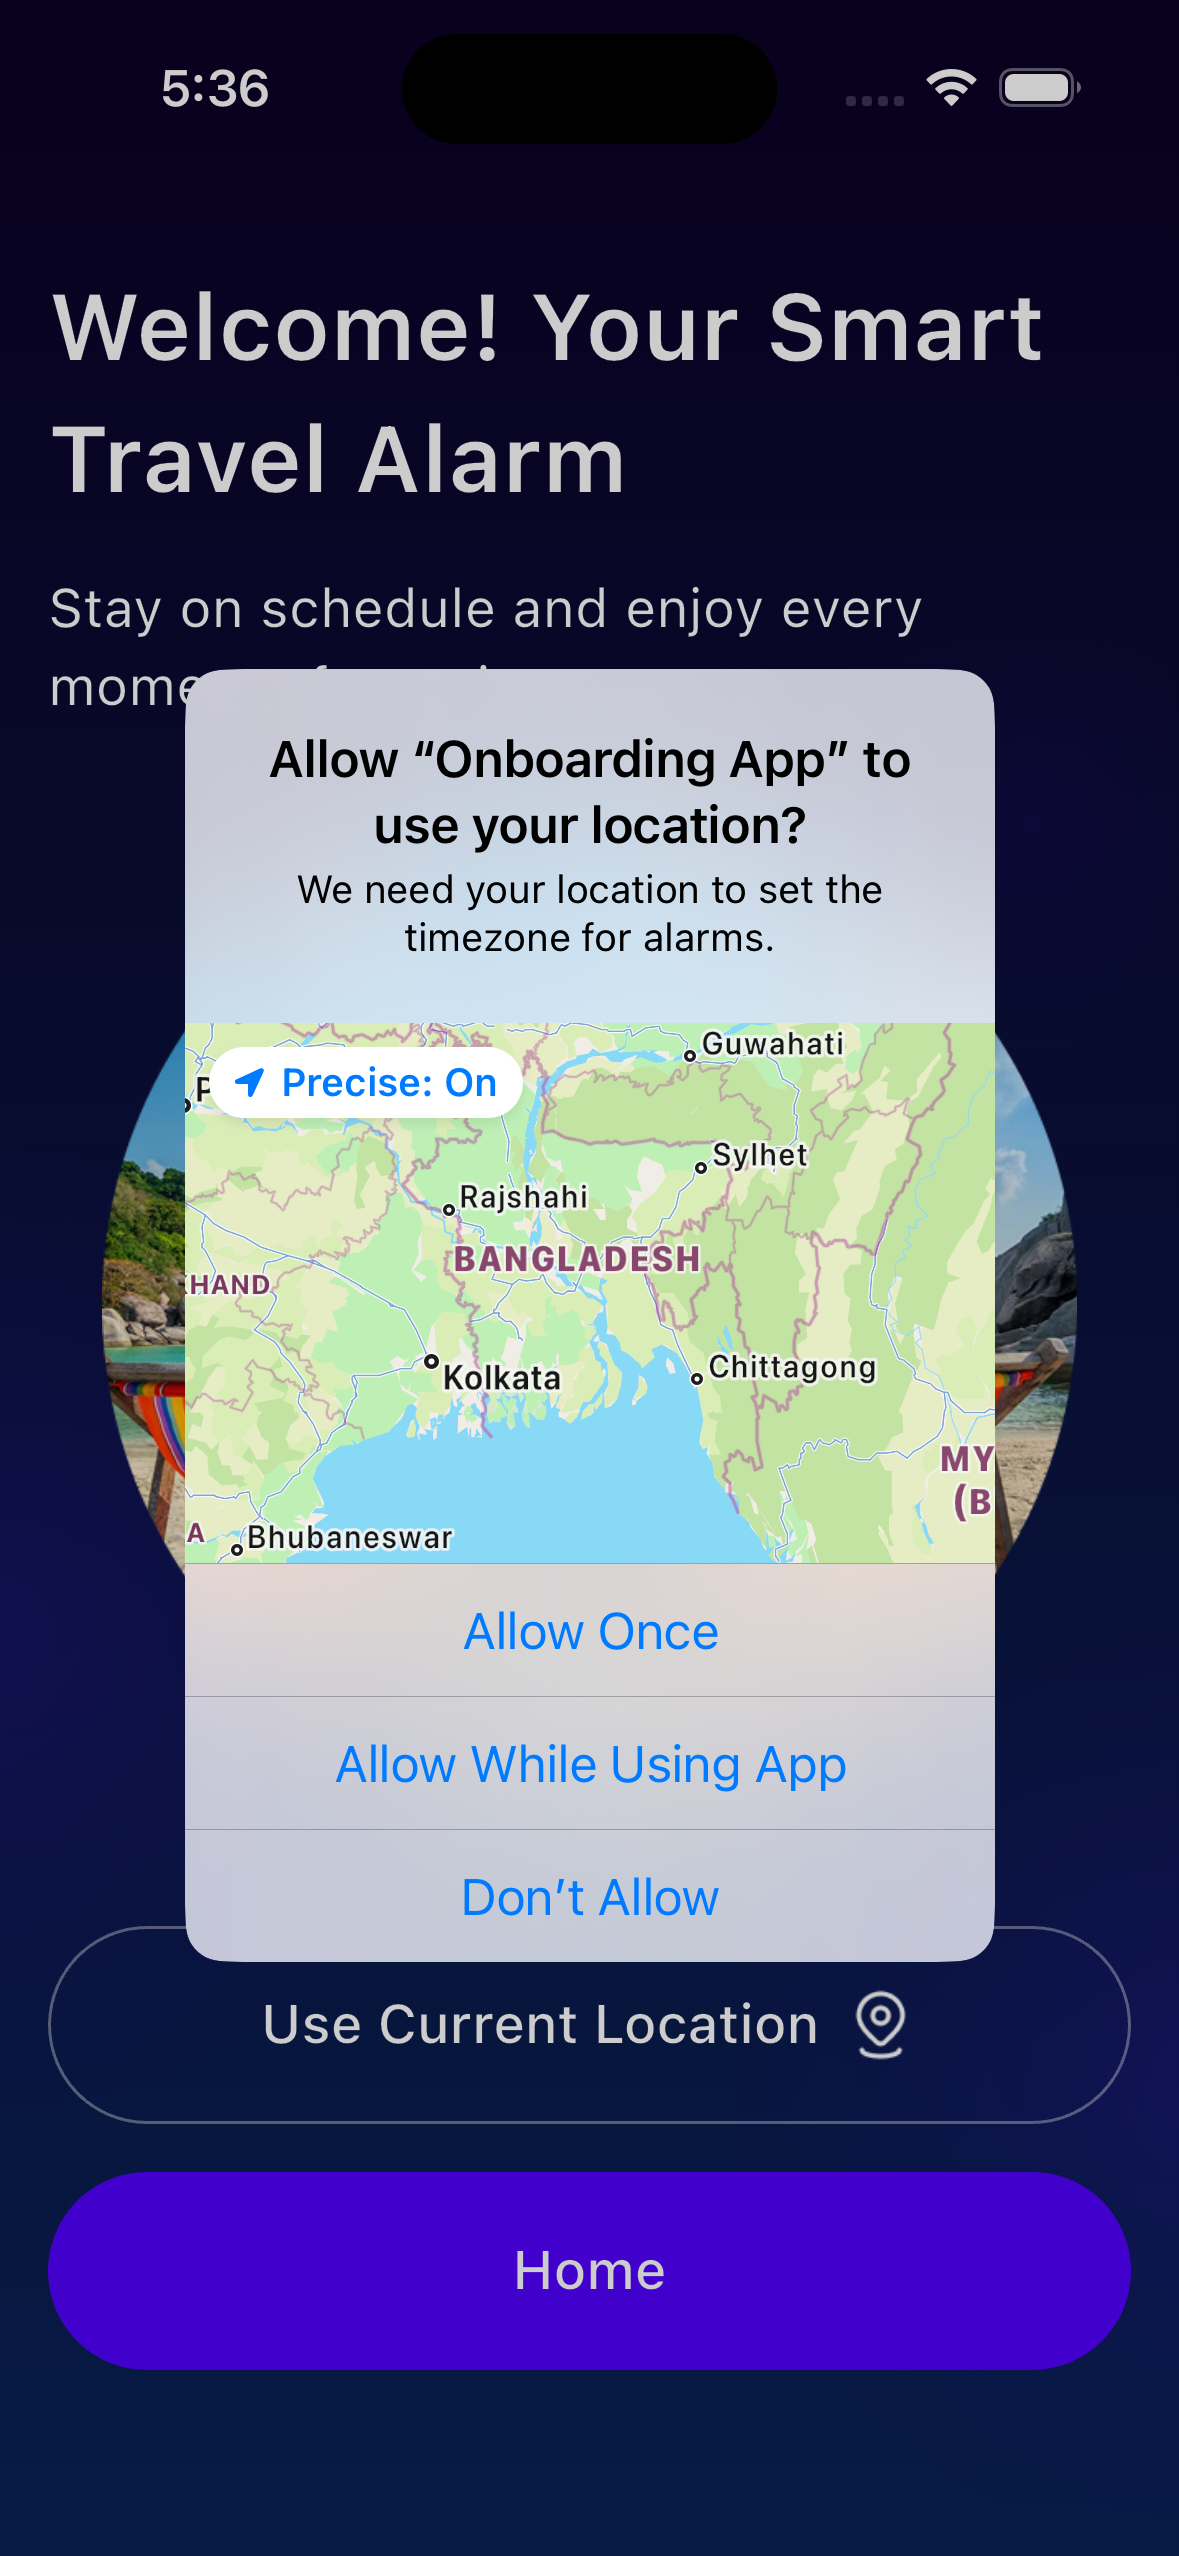
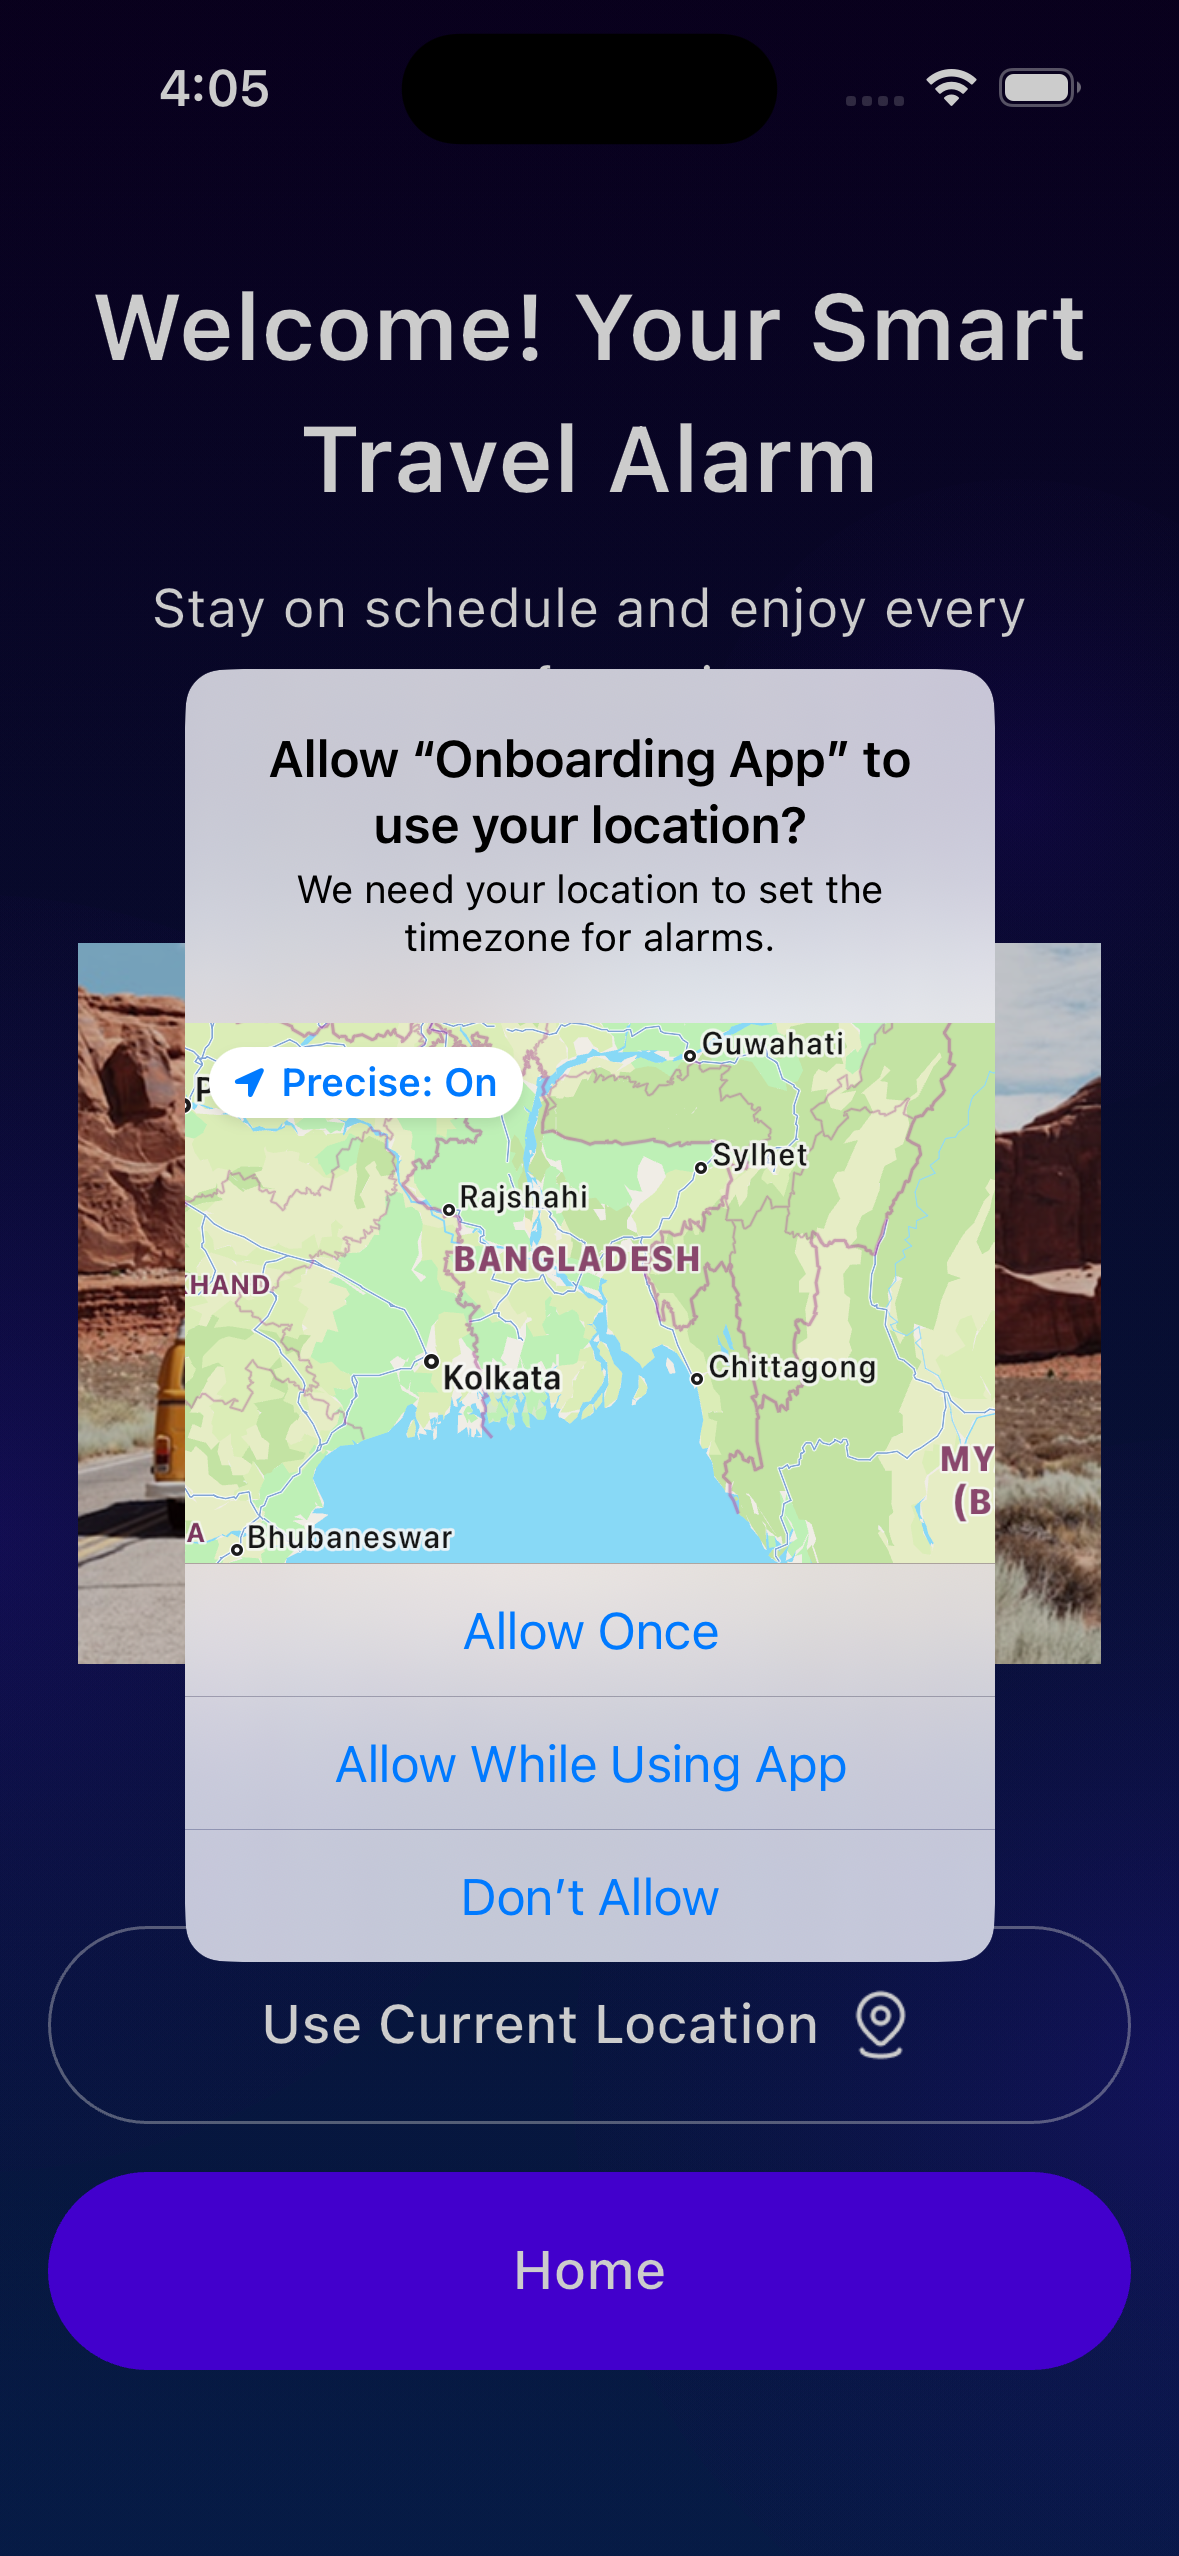
All Updated

diff --git a/lib/common_widgets/gradient_container.dart b/lib/common_widgets/gradient_container.dart
@@ -34,19 +34,16 @@ class GradientContainer extends StatelessWidget {
         children: [
           // Ellipse left center
           Positioned(
-            top: screenHeight * fracY(360),
-            left: screenWidth * fracX(-155),
+            top: screenHeight * fracY(280),
+            left: screenWidth * fracX(-210),
             child: Container(
-              width: screenWidth * fracX(300), // bigger for soft spread
-              height: screenHeight * fracY(300),
+              width: screenWidth * fracX(400),
+              height: screenHeight * fracY(400),
               decoration: const BoxDecoration(
                 shape: BoxShape.circle,
                 gradient: RadialGradient(
-                  colors: [
-                    Color.fromRGBO(82, 0, 255, 0.18),
-                    Colors.transparent,
-                  ],
-                  radius: 0.8, // spread more
+                  colors: [Color.fromRGBO(82, 0, 255, 0.2), Colors.transparent],
+                  radius: 0.8,
                   center: Alignment.center,
                 ),
               ),
@@ -55,16 +52,16 @@ class GradientContainer extends StatelessWidget {
 
           // Ellipse upper right
           Positioned(
-            top: screenHeight * fracY(183),
-            left: screenWidth * fracX(240),
+            top: screenHeight * fracY(150),
+            left: screenWidth * fracX(210),
             child: Container(
-              width: screenWidth * fracX(150),
-              height: screenHeight * fracY(150),
+              width: screenWidth * fracX(200),
+              height: screenHeight * fracY(200),
               decoration: const BoxDecoration(
                 shape: BoxShape.circle,
                 gradient: RadialGradient(
                   colors: [
-                    Color.fromRGBO(81, 0, 255, 0.08),
+                    Color.fromRGBO(81, 0, 255, 0.12),
                     Colors.transparent,
                   ],
                   radius: 0.8,
@@ -76,18 +73,15 @@ class GradientContainer extends StatelessWidget {
 
           // Ellipse 3 lower right
           Positioned(
-            top: screenHeight * fracY(500),
-            left: screenWidth * fracX(220),
+            top: screenHeight * fracY(450),
+            left: screenWidth * fracX(170),
             child: Container(
-              width: screenWidth * fracX(300),
-              height: screenHeight * fracY(300),
+              width: screenWidth * fracX(400),
+              height: screenHeight * fracY(400),
               decoration: const BoxDecoration(
                 shape: BoxShape.circle,
                 gradient: RadialGradient(
-                  colors: [
-                    Color.fromRGBO(82, 0, 255, 0.18),
-                    Colors.transparent,
-                  ],
+                  colors: [Color.fromRGBO(82, 0, 255, 0.2), Colors.transparent],
                   radius: 0.8,
                   center: Alignment.center,
                 ),

diff --git a/lib/features/alarm/alarm_screen.dart b/lib/features/alarm/alarm_screen.dart
@@ -38,7 +38,7 @@ class AlarmScreen extends StatelessWidget {
                             ),
                           ),
 
-                          const SizedBox(height: 12),
+                          const SizedBox(height: 15),
 
                           // Location TextField
                           Container(
@@ -111,7 +111,8 @@ class AlarmScreen extends StatelessWidget {
                                       AlarmModel alarm = provider.alarms[index];
 
                                       String formattedTime = DateFormat.jm()
-                                          .format(alarm.time);
+                                          .format(alarm.time)
+                                          .toLowerCase();
                                       String formattedDate = DateFormat(
                                         "EEE dd MMM yyyy",
                                       ).format(alarm.time);
@@ -141,21 +142,14 @@ class AlarmScreen extends StatelessWidget {
                                         ),
                                         onDismissed: (_) {
                                           provider.deleteAlarm(index);
-                                          ScaffoldMessenger.of(
-                                            context,
-                                          ).showSnackBar(
-                                            const SnackBar(
-                                              content: Text("Alarm deleted"),
-                                            ),
-                                          );
                                         },
                                         child: Container(
                                           margin: const EdgeInsets.symmetric(
                                             vertical: 7,
                                           ),
                                           padding: const EdgeInsets.symmetric(
-                                            horizontal: 20,
-                                            vertical: 22,
+                                            horizontal: 18,
+                                            vertical: 20,
                                           ),
                                           decoration: BoxDecoration(
                                             color: const Color.fromRGBO(
@@ -195,7 +189,7 @@ class AlarmScreen extends StatelessWidget {
                                                 ),
                                               ),
 
-                                              const SizedBox(width: 16),
+                                              const SizedBox(width: 8),
 
                                               // Toggle Switch
                                               GestureDetector(

diff --git a/lib/features/alarm/alarm_provider.dart b/lib/features/alarm/alarm_provider.dart
@@ -3,6 +3,7 @@ import 'package:shared_preferences/shared_preferences.dart';
 import 'dart:convert';
 import 'alarm_model.dart';
 import 'notification_service.dart';
+import 'package:intl/intl.dart';
 
 class AlarmProvider extends ChangeNotifier {
   List<AlarmModel> _alarms = [];
@@ -13,7 +14,7 @@ class AlarmProvider extends ChangeNotifier {
   bool _notificationsInitialized = false;
   bool _timezoneSet = false;
 
-  // Keep pending alarms until notifications + timezone are ready
+  // Keep pending alarms until notifications & timezone are ready
   final List<AlarmModel> _pendingAlarms = [];
 
   String? selectedLocation;
@@ -27,12 +28,11 @@ class AlarmProvider extends ChangeNotifier {
     await _notificationService.init();
     _notificationsInitialized = _notificationService.isInitialized;
 
-    // Load saved alarms after notifications are initialized
     await loadAlarms();
 
     _timezoneSet = true;
 
-    // Schedule all enabled alarms + pending alarms
+    // Schedule all enabled alarms & pending alarms
     await _rescheduleEnabledAndPendingAlarms();
   }
 
@@ -53,7 +53,6 @@ class AlarmProvider extends ChangeNotifier {
     _pendingAlarms.clear();
   }
 
-  // CRUD
   void addAlarm(DateTime alarmTime) {
     final model = AlarmModel(time: alarmTime, isEnabled: true);
     _alarms.add(model);
@@ -131,7 +130,7 @@ class AlarmProvider extends ChangeNotifier {
     await prefs.setString('alarms', alarmsJson);
   }
 
-  // -------------------- Notifications --------------------
+  // Notifications
   Future<void> _scheduleNotification(AlarmModel alarm) async {
     if (!_notificationsInitialized || !_timezoneSet) return;
 
@@ -142,12 +141,13 @@ class AlarmProvider extends ChangeNotifier {
         ? alarm.time.add(Duration(days: 1))
         : alarm.time;
 
+    String formattedTime = DateFormat.jm().format(scheduledDate).toLowerCase();
+
     await _notificationService.scheduleNotification(
       dateTime: scheduledDate,
       id: id,
       title: 'Alarm',
-      body:
-          'It\'s time: ${scheduledDate.hour.toString().padLeft(2, '0')}:${scheduledDate.minute.toString().padLeft(2, '0')}',
+      body: 'It\'s time: $formattedTime',
     );
   }
 

diff --git a/lib/features/location/location_screen.dart b/lib/features/location/location_screen.dart
@@ -26,6 +26,7 @@ class LocationScreen extends StatelessWidget {
                     // Heading
                     Text(
                       "Welcome! Your Smart Travel Alarm",
+                      textAlign: TextAlign.center,
                       style: TextStyle(
                         fontSize: 31,
                         fontWeight: FontWeight.w600,
@@ -36,12 +37,13 @@ class LocationScreen extends StatelessWidget {
                     // Paragraph
                     Text(
                       "Stay on schedule and enjoy every moment of your journey.",
+                      textAlign: TextAlign.center,
                       style: TextStyle(fontSize: 18, color: Colors.white),
                     ),
                     SizedBox(height: 30),
                     // Image
-                    ClipRRect(
-                      borderRadius: BorderRadius.circular(16),
+                    Padding(
+                      padding: const EdgeInsets.symmetric(horizontal: 10.0),
                       child: Image.asset(
                         'assets/images/location.png',
                         width: double.infinity,
@@ -109,7 +111,7 @@ class LocationScreen extends StatelessWidget {
                                 listen: false,
                               );
 
-                          // Fetch location if not yet fetched
+                          // Fetch location if not fetched
                           if (locationProvider.currentAddress == null) {
                             await locationProvider.fetchLocation();
                           }

diff --git a/lib/main.dart b/lib/main.dart
@@ -11,6 +11,13 @@ void main() async {
   // Initialize notifications
   await NotificationService().init();
 
+  SystemChrome.setSystemUIOverlayStyle(
+    const SystemUiOverlayStyle(
+      statusBarColor: Colors.transparent,
+      statusBarIconBrightness: Brightness.light,
+    ),
+  );
+
   runApp(
     MultiProvider(
       providers: [ChangeNotifierProvider(create: (_) => AlarmProvider())],
